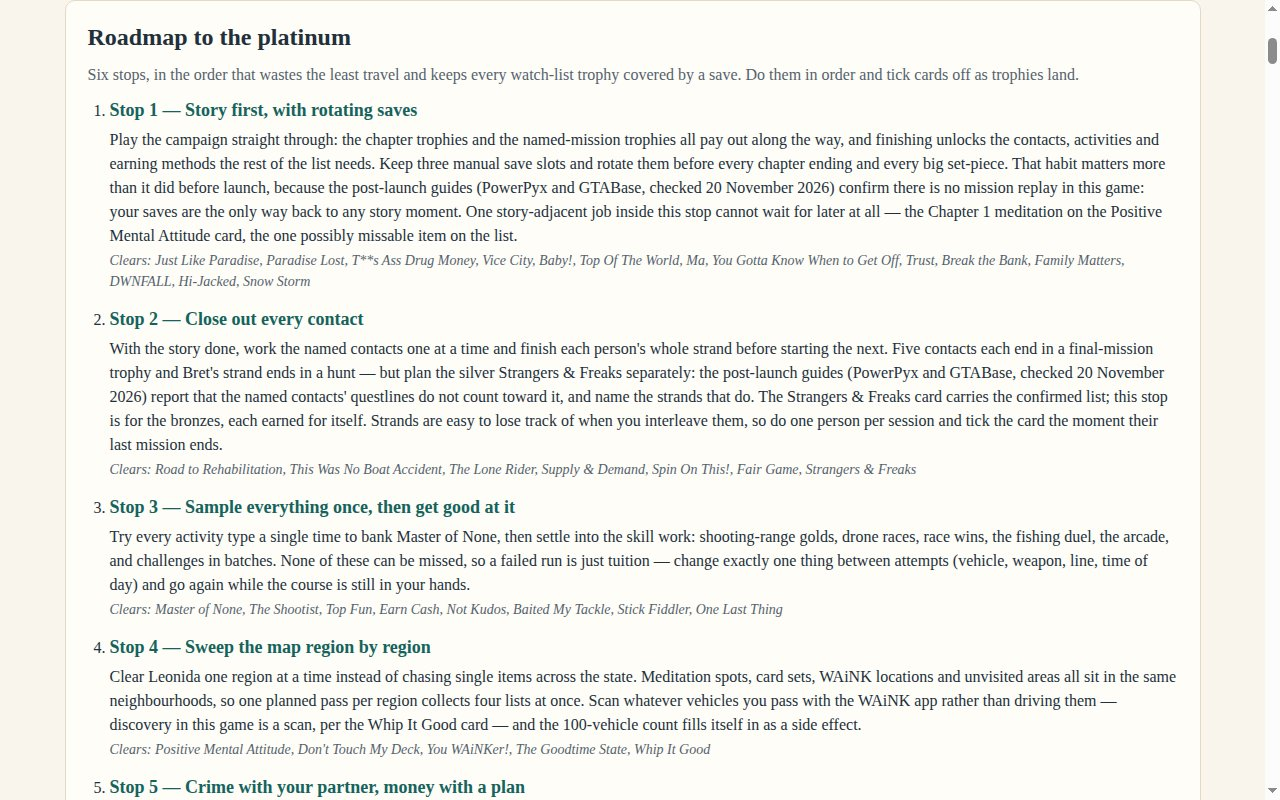
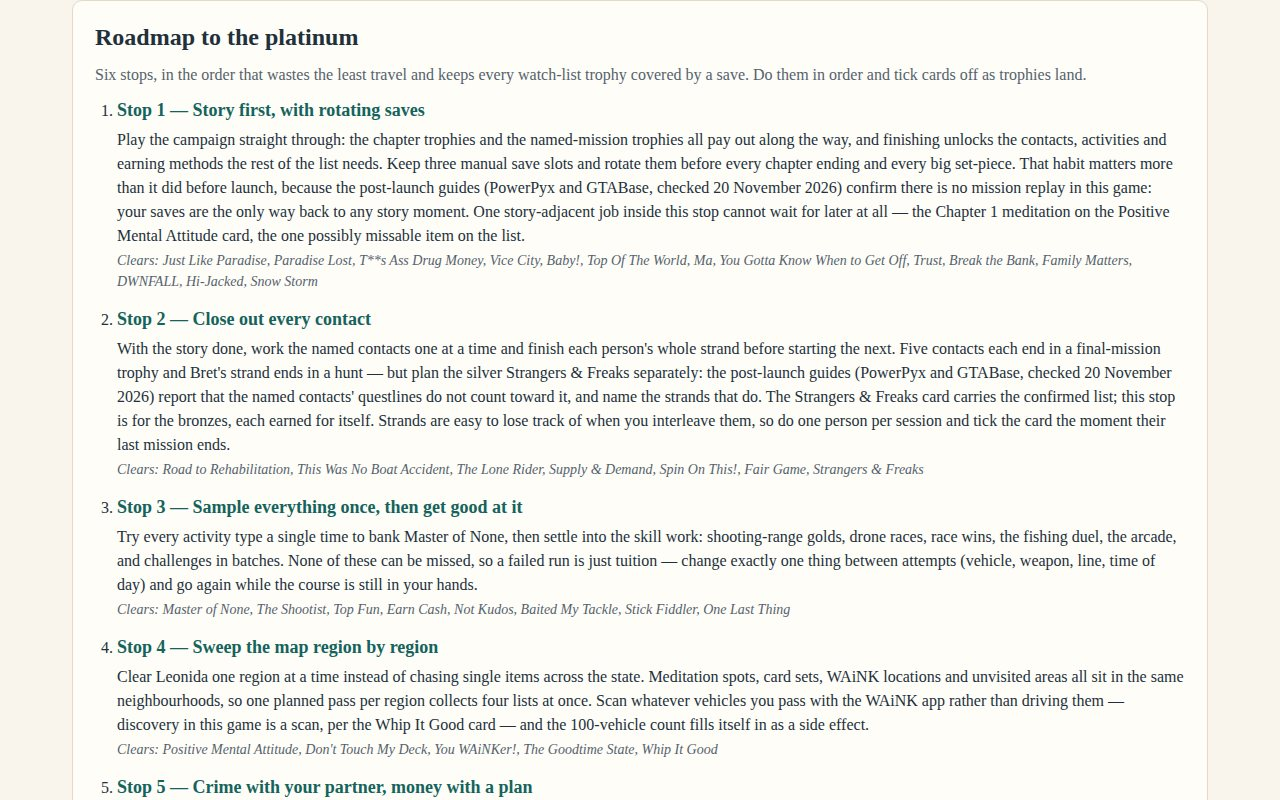
Round 4 revision: one-screen overview cover, highlighted source lines
The round-3 cover showed only the masthead, a how-to panel and the top of
the roadmap — no trophy card, no guide, no citation and no filter reached
the screenshot the judge sees largest. This revision adds a real overview
view (?view=cover, with an Overview button in the filter bar) that renders
on one screen, from the same data: the progress panel, the full filter
bar with export/import and the showing count, one complete guide open
(Paradise Lost, naming PowerPyx and GTABase, with its source line), the
head of the checklist with grade pills, and the watch list. Every card's
source line is now a highlighted box instead of small grey text so the
citation survives the judge's shrink. All four screenshots re-rendered
from the running app; dossier rebuilt and kit check passes.

Changed region(s): [[0.0625, 0.0312, 0.9062, 0.5938], [0.0625, 0.625, 0.9375, 1.0], [0.9688, 0.0312, 1.0, 0.0938]]

diff --git a/app/style.css b/app/style.css
@@ -189,7 +189,16 @@ h1 { margin: 0; font-size: 42px; line-height: 1.1; }
 
 .tip-text { margin: 8px 0; background: var(--accent-soft); border-radius: 6px; padding: 8px 10px; }
 
-.source-text { margin: 8px 0 0; font-size: 13px; color: var(--ink-soft); }
+.source-text {
+  margin: 10px 0 0;
+  font-size: 14px;
+  line-height: 1.45;
+  color: var(--ink);
+  background: #e9f2ef;
+  border-left: 4px solid var(--teal);
+  border-radius: 0 6px 6px 0;
+  padding: 7px 10px;
+}
 
 .shield-note { margin: 8px 0; color: var(--ink-soft); font-style: italic; }
 
@@ -207,6 +216,103 @@ h1 { margin: 0; font-size: 42px; line-height: 1.1; }
 .empty-note { font-size: 18px; color: var(--ink-soft); }
 
 .colophon { margin-top: 26px; border-top: 1px solid var(--line); padding-top: 12px; font-size: 14px; color: var(--ink-soft); }
+
+/* Overview (?view=cover): the whole guide on one screen — roadmap in short,
+   the filters, one full guide open with its source line, the head of the
+   checklist and the watch list, all rendered from the same data. */
+
+.overview-grid { display: grid; grid-template-columns: 1.55fr 0.8fr; gap: 20px; align-items: start; }
+
+.overview-featured-title, .overview-side h3 { margin: 2px 0 8px; font-size: 17px; color: var(--teal); }
+
+.overview-list { list-style: none; margin: 0; padding: 0; }
+
+.overview-row {
+  display: flex;
+  gap: 8px;
+  align-items: center;
+  padding: 2px 0;
+  border-bottom: 1px dotted var(--line);
+  font-size: 13.5px;
+}
+
+.overview-row input[type='checkbox'] { width: 15px; height: 15px; accent-color: var(--teal); }
+
+.overview-row-name { flex: 1; font-weight: bold; }
+
+.overview-note { margin: 8px 0 12px; font-size: 13px; color: var(--ink-soft); }
+
+.overview-watch { margin: 0; padding-left: 18px; font-size: 13.5px; }
+
+.overview-watch li { margin-bottom: 4px; }
+
+body.cover-mode { padding-top: 10px; }
+
+.cover-mode .masthead { padding-bottom: 8px; }
+
+.cover-mode .kicker { margin-bottom: 3px; }
+
+.cover-mode h1 { font-size: 28px; }
+
+.cover-mode .standfirst { display: none; }
+
+.cover-mode .progress-panel { padding: 10px 14px; }
+
+.cover-mode .progress-count { font-size: 19px; }
+
+.cover-mode #about-sheet, .cover-mode .cards, .cover-mode .colophon { display: none; }
+
+/* The roadmap keeps its own full sheet in the normal view; on the one-screen
+   overview it steps aside so the open guide and its source line fit whole. */
+.cover-mode #roadmap-sheet { display: none; }
+
+.cover-mode .card { padding: 10px 12px; }
+
+.cover-mode .card-name { font-size: 19px; }
+
+.cover-mode .guide-text, .cover-mode .step-list { font-size: 13.5px; line-height: 1.36; }
+
+.cover-mode .guide-text { margin: 6px 0; }
+
+.cover-mode .step-list { margin: 5px 0; }
+
+.cover-mode .step-list li { margin-bottom: 2px; }
+
+.cover-mode .source-text { font-size: 12.5px; margin-top: 7px; }
+
+.cover-mode .progress-count { margin-bottom: 5px; }
+
+.cover-mode .progress-detail { margin-top: 5px; }
+
+.cover-mode .overview-featured-title, .cover-mode .overview-side h3 { margin-bottom: 5px; }
+
+.cover-mode .controls input[type='search'], .cover-mode .controls select { padding: 5px 8px; }
+
+.cover-mode .sheet { margin-top: 10px; padding: 10px 18px; }
+
+.cover-mode .sheet h2 { font-size: 20px; margin-bottom: 2px; }
+
+.cover-mode #roadmap-sheet .sheet-note { display: none; }
+
+.cover-mode .roadmap { display: grid; grid-template-columns: repeat(3, 1fr); gap: 4px 20px; margin: 4px 0 0; }
+
+.cover-mode .roadmap-stop { margin-bottom: 2px; }
+
+.cover-mode .roadmap-stop h3 { font-size: 15.5px; }
+
+.cover-mode .roadmap-stop p {
+  display: -webkit-box;
+  -webkit-line-clamp: 1;
+  -webkit-box-orient: vertical;
+  overflow: hidden;
+  font-size: 13px;
+}
+
+.cover-mode .controls { font-size: 12.5px; }
+
+.cover-mode .control-row { gap: 10px; margin-bottom: 6px; }
+
+.cover-mode .tip-text { display: none; }
 
 @media (max-width: 720px) {
   .masthead { flex-direction: column; }

diff --git a/app/app.js b/app/app.js
@@ -30,6 +30,13 @@ const KIND_WORDS = {
   'long-haul': 'Long haul & counts',
 };
 
+// The overview (?view=cover) is the guide on one screen for a first look:
+// the roadmap in short, the filters as they stand, one full guide open with
+// its source line, the head of the checklist and the watch list. It renders
+// from the same data as the cards below; nothing here is a second copy.
+const OVERVIEW_FEATURED_NAME = 'Paradise Lost';
+const OVERVIEW_LIST_ROWS = 12;
+
 let earned = new Set();
 try {
   earned = new Set(JSON.parse(localStorage.getItem(STORAGE_KEY) ?? '[]'));
@@ -175,6 +182,53 @@ function renderCards() {
     : 'Watch list clear — every verify-first trophy is earned';
 }
 
+// --- Overview (one-screen composite) -------------------------------------------
+
+function renderOverview() {
+  const sheet = document.getElementById('overview-sheet');
+  sheet.hidden = false;
+
+  const featured = trophies.find((t) => t.name === OVERVIEW_FEATURED_NAME) ?? trophies[0];
+  const featuredBox = document.getElementById('overview-featured');
+  featuredBox.replaceChildren();
+  featuredBox.append(node('h3', 'overview-featured-title', 'One guide, open — with its sources'));
+  featuredBox.append(buildCard(featured));
+
+  const list = document.getElementById('overview-list');
+  list.replaceChildren();
+  for (const t of trophies.slice(0, OVERVIEW_LIST_ROWS)) {
+    const row = node('li', 'overview-row');
+    const box = node('input');
+    box.type = 'checkbox';
+    box.checked = earned.has(t.name);
+    box.setAttribute('aria-label', `Mark ${t.name} as earned`);
+    box.addEventListener('change', () => {
+      if (box.checked) earned.add(t.name);
+      else earned.delete(t.name);
+      persistProgress();
+      renderCards();
+      renderOverview();
+    });
+    row.append(box);
+    row.append(node('span', 'overview-row-name', t.name));
+    if (t.missable) row.append(node('span', 'pill pill-watch', 'WATCH'));
+    row.append(node('span', `pill pill-${t.grade}`, t.grade));
+    list.append(row);
+  }
+  document.getElementById('overview-list-title').textContent =
+    `Checklist — first ${OVERVIEW_LIST_ROWS} of ${trophies.length}`;
+  document.getElementById('overview-list-note').textContent =
+    `…plus the other ${trophies.length - OVERVIEW_LIST_ROWS} below in the full checklist: ` +
+    '1 platinum · 2 gold · 6 silver · 46 bronze in all, each with its own cited guide.';
+
+  const watch = document.getElementById('overview-watch');
+  watch.replaceChildren();
+  for (const t of trophies.filter((x) => x.missable)) {
+    const item = node('li', null, `${t.name} — ${t.description}`);
+    watch.append(item);
+  }
+}
+
 // --- Controls ------------------------------------------------------------------
 
 document.getElementById('export').addEventListener('click', () => {
@@ -215,6 +269,14 @@ if (params.get('kind')) els.kind.value = params.get('kind');
 if (params.get('q')) els.search.value = params.get('q');
 if (params.get('watch') === '1') els.watchOnly.checked = true;
 if (params.get('shield') === '0') els.shield.checked = false;
+
+document.getElementById('overview-link').addEventListener('click', () => {
+  location.search = '?view=cover';
+});
+if (params.get('view') === 'cover') {
+  document.body.classList.add('cover-mode');
+  renderOverview();
+}
 
 renderCards();
 

diff --git a/app/index.html b/app/index.html
@@ -64,9 +64,24 @@
     <label class="toggle"><input id="watch-only" type="checkbox"> Watch list only</label>
     <label class="toggle"><input id="hide-earned" type="checkbox"> Hide earned</label>
     <label class="toggle"><input id="shield" type="checkbox" checked> Spoiler shield</label>
+    <button id="overview-link" type="button">Overview</button>
     <button id="export" type="button">Export progress</button>
     <label class="import-button">Import progress <input id="import" type="file" accept="application/json"></label>
     <p id="showing" class="showing" role="status"></p>
+  </div>
+</section>
+
+<section class="sheet overview" id="overview-sheet" hidden>
+  <h2>Overview — the whole guide on one screen</h2>
+  <div class="overview-grid">
+    <div id="overview-featured"></div>
+    <div class="overview-side">
+      <h3 id="overview-list-title">Checklist</h3>
+      <ol id="overview-list" class="overview-list"></ol>
+      <p id="overview-list-note" class="overview-note"></p>
+      <h3>Watch list — verify before their moment passes</h3>
+      <ul id="overview-watch" class="overview-watch"></ul>
+    </div>
   </div>
 </section>
 
